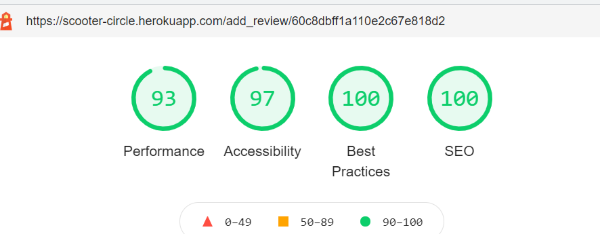
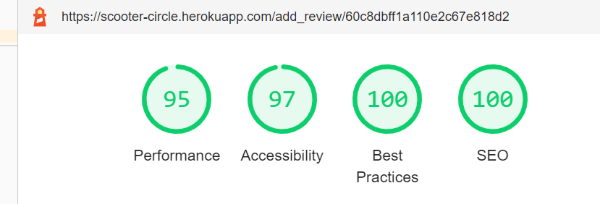
Added final reports from Google lighthouse

diff --git a/TESTING.md b/TESTING.md
@@ -712,7 +712,9 @@
 
 1. Home Page
 
-- Initial issues with performance score of the site, following the google lighthouse report and advice I have added `rel="preconnect"` to externam cdns. Informaiton for this found on [web dev](https://web.dev/uses-rel-preconnect/?utm_source=lighthouse&utm_medium=devtools)
+![home-page-lighthouse-report](wireframes/home-page-lighthouse-report.png)
+
+- Initial issues with performance score of the site, following the google lighthouse report and advice I have added `rel="preconnect"` and `rel="preload"` to externam cdns. Informaiton for this found on [web dev](https://web.dev/uses-rel-preconnect/?utm_source=lighthouse&utm_medium=devtools)
 - Also added `loading="lazy"` to carousel images to imporve performance
 - I have noticed the preloader added to the side does slow down the speed of the site, however I have decided not to remove it. 
 - Also added specific width and height to carousel images.
@@ -732,6 +734,8 @@
 ![profile-page-report](wireframes/profile-page-lighthouse.png)
 
 5. Edit Review
+
+![edit-review-report](wireframes/edit-review-lighthouse-report.png)
 
 - Heading elements are not in a sequentially-descending order, changed the mobile logo from h3 to h2 element
 
@@ -770,15 +774,22 @@
 
 ### Cross Browser Compatibility Table 
 
-| Pages    | <strong>Google Chrome</strong>   |       <strong>Edge</strong>     |     <strong>Safari</strong>     |
-|----------|:--------------------------------:|--------------------------------:--------------------------------:|
-| Home     |&check; | &check;| &check;| 
-| Recipe   |&check; | &check;| &check;|    
-| About    |&check; | &check;| &check;|
-| Contact  |&check; | &check;| &check;|
-| 404.html |&check; | &check;| &check;|
+| Pages    | **Google Chrome** | **Edge**  | **Safari**| **Firefox**
+|----------|:-----------------:|-----------:|---------:|-----------:|
+| Home     |&check;            | &check;   | &check;| &check;|
+| Products    |&check; | &check;| &check;| &check;|
+| View Product   |&check; | &check;| &check;| &check;| 
+| Profile    |&check; | &check;| &check;| &check;|
+| Login    |&check; | &check;| &check;| &check;|
+| Register    |&check; | &check;| &check;| &check;|
+| Edit Review    |&check; | &check;| &check;| &check;|
+| Add Product    |&check; | &check;| &check;| &check;|
+| Edit Product    |&check; | &check;| &check;| &check;|
+| Contact  |&check; | &check;| &check;| &check;|
+| 404.html |&check; | &check;| &check;| &check;|
 
-- Browser compatibility test has been successful and all browsers tested displayed the information correctly.
+
+- Browser compatibility test has been successful and all browsers tested displayed the information correctly. Used [Lampada](https://app.lambdatest.com/console/realtime) to help with cross browser compatability
 
 ##### back to [content](#table-of-content)
 
@@ -806,5 +817,10 @@
   - When testing and validating user input the custom validation was not showing up as expected.
   - Fixed: using an alert: 
     - `oninvalid="alert('Please enter a scooter range using numerical value only!')"`
+
+### Edit Product 
+  - Error found whilst testing, the `product_reviews` where resetting to 0 when updating a product.
+  - Fix this error by submitting a value from the database:
+    - `"product_reviews": product['product_reviews']` 
 
 ##### back to [content](#table-of-content)
